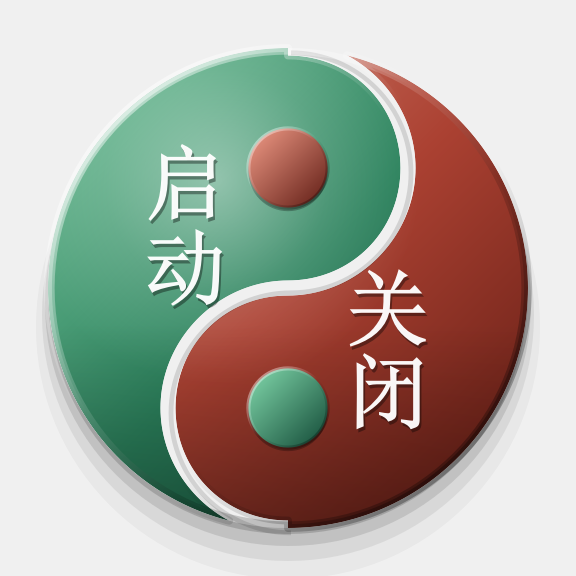
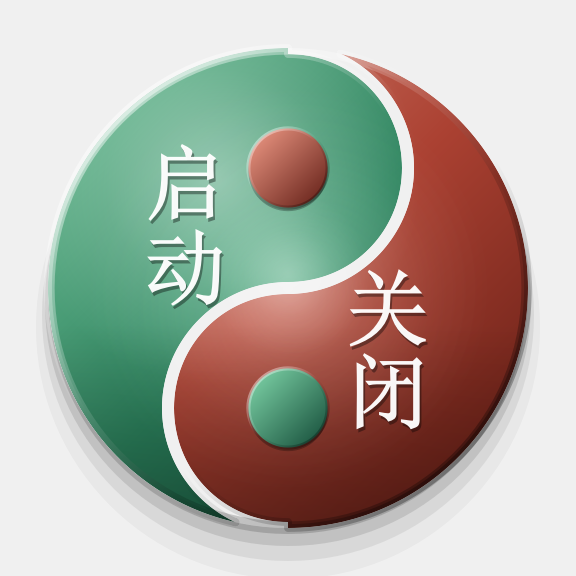
feat(ui): 缝隙改为透底色 + 盘心发光（v1.8.0 试看版）
- 缝隙 5px -> 4px，删除缝内的深色投影，缝内只透面板底色
- 新增 _paint_core_glow：跨缝白色柔光 + 两条鱼各自「自身色 lighter(124)」径向提亮
  （先试纯白叠加会把玉绿冲成灰绿，改为提亮自身明度）
- 版本 1.8.0（源码 + version.txt），构建 LaunchForge_v1.8.0.exe，旧 exe 已清理
- 文档：REQ-006 决策记录、FEAT-008 绘制分层、T-009 复验表、CHANGELOG 定版
- 新增 docs/images/real-window-v1.8.0.png（真实 exe 截图，PrintWindow 抓取）

Changed region(s): [[0.25, 0.1562, 0.75, 0.875], [0.5, 0.0938, 0.6562, 0.1562], [0.375, 0.875, 0.5, 0.9062]]

diff --git a/src/launchforge.py b/src/launchforge.py
@@ -64,7 +64,7 @@ CONFIG_FILE = os.path.join(CONFIG_DIR, 'launcher_presets.json')
 LOG_DIR = os.path.join(CONFIG_DIR, 'logs')
 LOG_FILE = os.path.join(LOG_DIR, 'launcher.log')
 
-APP_VERSION = '1.7.0'
+APP_VERSION = '1.8.0'
 
 log = logging.getLogger('launchforge')
 
@@ -530,7 +530,7 @@ class TaijiLaunchButton(QWidget):
         super().__init__(parent)
         self._d = int(diameter)
         self._margin = 16                     # 留给落影
-        self._gap = 5                         # 两条鱼之间的缝隙
+        self._gap = 4                         # 两条鱼之间的缝隙（只透底色，不加投影）
         self._cache = None
         self.setFixedSize(self._d + self._margin * 2, self._d + self._margin * 2)
         self.setMouseTracking(True)
@@ -667,6 +667,17 @@ class TaijiLaunchButton(QWidget):
         spec.setColorAt(1.0, QColor(255, 255, 255, 0))
         p.fillPath(path, QBrush(spec))
 
+        # 2b) 内在发光：用"自身颜色的提亮版"做径向渐变。
+        # 直接叠白色会把玉绿冲成灰绿，只有提高自身明度才有"从里面亮"的观感。
+        bright = light.lighter(124)
+        inner = QRadialGradient(QPointF(cx, cy), radius * 0.80)
+        inner.setColorAt(0.0, QColor(bright.red(), bright.green(), bright.blue(),
+                                    86 if enabled else 46))
+        inner.setColorAt(0.42, QColor(bright.red(), bright.green(), bright.blue(), 34))
+        inner.setColorAt(0.78, QColor(bright.red(), bright.green(), bright.blue(), 9))
+        inner.setColorAt(1.0, QColor(bright.red(), bright.green(), bright.blue(), 0))
+        p.fillPath(path, QBrush(inner))
+
         # 3) 底部内阴影：制造厚度
         shade = QLinearGradient(QPointF(0, cy + radius * 0.15), QPointF(0, rect.bottom()))
         shade.setColorAt(0.0, QColor(0, 0, 0, 0))
@@ -771,21 +782,9 @@ class TaijiLaunchButton(QWidget):
         self._paint_fish(p, left, 'run')
         self._paint_fish(p, right, 'close')
 
-        # 缝隙投影：沿 S 曲线在缝内压一道淡影，两块才像真的分开而不是画上去的
-        _big, _l, _r, _eyes, _er, _radius, _cx, _cy = self._geometry()
-        divider = QPainterPath()
-        divider.moveTo(_cx, _cy - _radius)
-        divider.arcTo(QRectF(_cx - _radius / 2.0, _cy - _radius, _radius, _radius), 90, -180)
-        divider.arcTo(QRectF(_cx - _radius / 2.0, _cy, _radius, _radius), 90, 180)
-        p.save()
-        p.setBrush(Qt.NoBrush)
-        pen = QPen(QColor(0, 0, 0, 32))
-        pen.setWidthF(1.6)
-        pen.setCapStyle(Qt.FlatCap)
-        p.setPen(pen)
-        p.translate(1.0, 1.6)
-        p.drawPath(divider)
-        p.restore()
+        # 中心发光：两块之间留出的缝只透底色，靠这层柔光让盘心"亮起来"，
+        # 看上去像光从内部透出，而不是靠深色阴影把两块分开。
+        self._paint_core_glow(p, big, _radius, _cx, _cy)
 
         # 鱼眼：左鱼嵌红点、右鱼嵌绿点
         self._paint_eye(p, eyes[0], eye_r, self.CLOSE_COLORS, self._run_enabled)
@@ -794,6 +793,37 @@ class TaijiLaunchButton(QWidget):
         self._paint_bezel(p, big)
         self._paint_text(p)
         p.end()
+
+    def _paint_core_glow(self, p, big, radius, cx, cy):
+        """
+        中心内发光：径向柔光 + 一枚更集中的球面亮斑。
+
+        两层叠加才像"从里面亮"，单层纯白渐变更像蒙了一层雾。
+        整体裁剪在圆内，边缘不留亮边，避免破坏外圈包边。
+        """
+        p.save()
+        clip = QPainterPath()
+        clip.addEllipse(big)
+        p.setClipPath(clip)
+        p.setPen(Qt.NoPen)
+
+        # 1) 跨缝柔光：让盘心整体更亮，缝两侧也跟着提亮，光才"连贯"
+        halo = QRadialGradient(QPointF(cx, cy), radius * 0.85)
+        halo.setColorAt(0.0, QColor(255, 255, 255, 44))
+        halo.setColorAt(0.35, QColor(255, 255, 255, 22))
+        halo.setColorAt(0.70, QColor(255, 255, 255, 7))
+        halo.setColorAt(1.0, QColor(255, 255, 255, 0))
+        p.setBrush(QBrush(halo))
+        p.drawEllipse(big)
+
+        # 2) 球面亮斑：半径小、衰减快，做出"鼓起来受光"的点
+        core = QRadialGradient(QPointF(cx, cy - radius * 0.06), radius * 0.34)
+        core.setColorAt(0.0, QColor(255, 255, 255, 64))
+        core.setColorAt(0.55, QColor(255, 255, 255, 18))
+        core.setColorAt(1.0, QColor(255, 255, 255, 0))
+        p.setBrush(QBrush(core))
+        p.drawEllipse(big)
+        p.restore()
 
     def _paint_bezel(self, p, big):
         """外圈包边：左上亮、右下暗，让整个圆盘像嵌在面板上。"""

diff --git a/docs/02-功能/FEAT-008-太极式启动关闭控件.md b/docs/02-功能/FEAT-008-太极式启动关闭控件.md
@@ -15,7 +15,7 @@
 |---|---|
 | 阴鱼（左，绿） | 外圈左半弧 + 上段 S（上方小圆的右半）+ 下段 S（下方小圆的左半），头部在上 |
 | 阳鱼（右，红） | 外圈右半弧 + 同样的 S 曲线，头部在下 |
-| 缝隙 | 沿 S 曲线用 `QPainterPathStroker` 从两条鱼各切掉一半，形成 5 px 真实间隙 |
+| 缝隙 | 沿 S 曲线用 `QPainterPathStroker` 从两条鱼各切掉一半，形成 4 px 真实间隙；**缝内只透面板底色**，不加任何投影 |
 | 鱼眼 | 左鱼嵌红点、右鱼嵌绿点，位置在各自鱼头中心 |
 | 文字 | 「启动」「关闭」两字**竖排**（逐字居中、自上而下），不做旋转，分别落在两条鱼的鱼身上 |
 
@@ -36,7 +36,9 @@
 2. **顶部镜面高光**：`QRadialGradient` 落在左上，模拟环境光；
 3. **底部内阴影**：纵向渐变压暗下缘，形成厚度；
 4. **边缘浮雕**：沿鱼形轮廓用**对角渐变画笔**描边（左上白、右下黑），这是"凹凸感"的主要来源；
-5. **缝隙投影**：沿 S 曲线在缝隙里偏移 1 px 压一道淡影，让两块像真的分开；
+5. **盘心发光**（v1.8.0）：两条鱼各叠一层「自身颜色 `lighter(124)`」的径向渐变
+   （中心 alpha 86 → 0），再叠一层跨缝白色柔光（中心 alpha 44）；
+   注意**不能直接叠纯白**，否则玉绿会被冲成灰绿；
 6. **外圈包边**：整圆左上亮、右下暗的 2.2 px 环，把圆盘"托"在面板上；
 7. **落影**：多层低透明度椭圆叠出柔和阴影（不依赖模糊滤镜）。
 
@@ -47,6 +49,7 @@
 | `_geometry()` | 一次性算出圆框、两条鱼路径、鱼眼位置；绘制与命中判定**共用同一份几何** |
 | `_side_at(pos)` | `path.contains()` 判定，天然支持 S 形边界与缝隙 |
 | `_paint_fish()` | 渐变 + 高光 + 内阴影 + 浮雕描边 + 悬停细边 |
+| `_paint_core_glow()` | 盘心发光：自身色径向提亮 + 跨缝白色柔光，`setClipPath` 裁在圆内 |
 | `_paint_eye()` | 鱼眼：投影 + 渐变球体 + 浮雕边 |
 | `_paint_bezel()` | 外圈包边 |
 | `_paint_text()` | 竖排文字，逐字绘制（启用态白字带暗影，禁用态深灰字） |
@@ -55,7 +58,9 @@
 
 - **尺寸固定**：绘制与命中都基于初始化时的直径（160 px），窗口缩放不会改变圆盘大小；
   需要改大小就改 `TaijiLaunchButton(160)` 这个参数。
-- **缝隙不可点**：S 曲线上 5 px 的间隙属于"空档"，故意不响应点击（避免误触另一半）。
+- **缝隙不可点**：S 曲线上 4 px 的间隙属于"空档"，故意不响应点击（避免误触另一半）。
+- **缝隙不加深色投影**：缝本身透面板底色，靠盘心的光把两块区分开；
+  早期版本在缝里压过一道黑影，放大后像一条发黑的深沟，已移除。
 - **鱼形边界靠矢量判定**：窗口在极高 DPI 缩放下依旧准确（`contains()` 基于路径而非像素），
   但若将来把圆盘改成图片资源，边界必须同步维护。
 - **无键盘焦点**：目前仅鼠标操作。

diff --git a/docs/01-需求/REQ-006-太极式启动关闭控件.md b/docs/01-需求/REQ-006-太极式启动关闭控件.md
@@ -29,8 +29,9 @@
 | 日期 | 议题 | 结论 | 理由 |
 |---|---|---|---|
 | 2026-10-20 | 分割方式 | 初版为垂直直切；**第二版改为 S 形太极分割** | 用户明确要求"要太极阴阳图" |
-| 2026-10-20 | 缝隙 | 用 `QPainterPathStroker` 从鱼形中真实减掉 5 px | 用户要求"按钮要有缝隙"，描边模拟缝隙会露馅 |
+| 2026-10-20 | 缝隙 | 用 `QPainterPathStroker` 从鱼形中真实减掉 4 px，缝内只透底色 | 用户要求"按钮要有缝隙"，描边模拟缝隙会露馅；后又要求缝隙"不要太明显，用背景的颜色就行"，故去掉缝里的投影并收窄 5→4 px |
 | 2026-10-20 | 凹凸感 | 沿轮廓用对角渐变画笔描边（浮雕） | 纯渐变只是明暗，压铸质感需要"边缘有高光也有暗边" |
+| 2026-10-20 | 盘心发光 | 每块用自身色 `lighter(124)` 做径向渐变 + 跨缝白柔光 | 用户要"中间像亮起来的感觉"；先试纯白叠加，会把玉绿冲成灰绿，改为提亮自身色 |
 | 2026-10-20 | 文字 | 逐字竖排，落在各自鱼身上 | 用户要求"文字竖着且竖着排布"；旋转 90° 会被读成横排 |
 | 2026-10-20 | 鱼眼 | 左鱼嵌红点、右鱼嵌绿点 | 太极图符号必需，同时强化两块的对立关系 |
 | 2026-10-20 | 配色 | 玉绿 + 朱砂红，压低明度与饱和差 | 用户反馈"配色怪怪的"——首个版本偏糖果色 |
@@ -51,7 +52,7 @@
 
 ## 后续可微调项（等用户反馈）
 
-- 直径（160 偏大还是偏小）、缝隙宽度（当前 5 px）
+- 直径（160 偏大还是偏小）、缝隙宽度（当前 4 px，已按要求收窄到"几乎看不出分界"）
 - 配色深浅（当前绿 `#2B815C`、红 `#AB4132`）
 - 是否需要更明显的"凸起"（可加大浮雕描边宽度）
 - 是否在圆下方补一行说明文字

diff --git a/CHANGELOG.md b/CHANGELOG.md
@@ -3,14 +3,17 @@
 版本号采用语义化版本。`v1.0.0` 是「从 exe 反汇编还原出的原始程序」，作为基线；
 此后每完成一项需求递增次版本号（`v1.x.0`），修复缺陷递增修订号（`v1.x.y`）。
 
-## [Unreleased]
+## [1.8.0] - 2026-10-20
 
 ### Added
 - **顶部太极式启动 / 关闭控件**（REQ-006 / FEAT-008）
   - 新增 `TaijiLaunchButton`：按太极图几何构造绘制两条鱼（S 形分割），左绿=一键启动、右红=关闭全部
-  - 两条鱼之间用 `QPainterPathStroker` 真实切出 5 px 缝隙；点缝隙/圆外均不响应
+  - 两条鱼之间用 `QPainterPathStroker` 真实切出 4 px 缝隙，缝内**只透面板底色**（不加投影，
+    避免出现一道发黑的深沟）；点缝隙/圆外均不响应
   - 鱼眼：左鱼嵌红点、右鱼嵌绿点；文字「启动」「关闭」逐字**竖排**，不做旋转
-  - 凹凸感：对角渐变 + 顶部高光 + 底部内阴影 + **沿轮廓的对角渐变浮雕描边** + 缝隙投影 + 外圈包边 + 多层落影
+  - 凹凸感：对角渐变 + 顶部高光 + 底部内阴影 + **沿轮廓的对角渐变浮雕描边** + 外圈包边 + 多层落影
+  - **盘心发光**：两条鱼各自叠一层「自身颜色提亮版」的径向渐变 + 一层跨缝白色柔光，
+    中心亮、向外衰减，做出「光从圆盘内部透出」的观感（不用叠纯白，避免绿色被冲成灰绿）
   - 交互细节：按下后拖出鱼身松开不触发、悬停高亮、启动中绿鱼置灰（文字转深灰）而红鱼保持可用
   - 圆盘单独占据顶部一行并居中，不再与添加/宏等功能按钮混排；直径 160 px
 

diff --git a/docs/06-测试/验收记录.md b/docs/06-测试/验收记录.md
@@ -464,6 +464,17 @@ python tests/test_step8_taiji_button.py
 | `docs/images/ui-taiji-zoom.png` | 3 倍放大：渐变、高光、内阴影、落影、中缝细节 |
 | `docs/images/ui-taiji-states.png` | 四态对比：常态 / 左半悬停 / 右半悬停 / 左半禁用 |
 | `docs/images/main-window.png` | 整窗效果（README 主截图，已替换为新版） |
+| `docs/images/real-window-v1.8.0.png` | **真实 exe** 运行截图（`PrintWindow` 抓取，DPI 感知） |
+
+**v1.8.0 微调复验**（缝隙与盘心发光）：
+
+| 检查项 | 期望 | 实测 |
+|---|---|---|
+| 缝隙宽度 | 5 px → 4 px，缝内为面板底色 | ✅ 1× 下几乎看不出分界 |
+| 缝隙不再压投影 | 无深色沟 | ✅ 已删除该绘制段 |
+| 盘心发光 | 中心亮、向外衰减，颜色不被冲灰 | ✅ 绿色改「自身色提亮」后不再发灰 |
+| 交互回归 | 缝隙仍不可点，左右命中不变 | ✅ T-009 全部用例重跑通过 |
+| 真实产物 | exe 渲染与源码一致 | ✅ `real-window-v1.8.0.png` |
 
 > 采坑记录：本机 `QT_QPA_PLATFORM=offscreen` 环境下**所有文字都不渲染**（字体库不可用，
 > `app.font().family()` 退化为 Helvetica，`drawText` 产出 0 个暗像素）。

diff --git a/docs/README.md b/docs/README.md
@@ -4,9 +4,9 @@
 
 | 项目 | 位置 |
 |---|---|
-| 当前版本 | **v1.7.0** |
+| 当前版本 | **v1.8.0** |
 | 源码主副本 | `../src/launchforge.py` |
-| 可执行产物 | `../LaunchForge_v1.7.0.exe`（仓库根只留这一个；原始程序存档在分析工作区 `LaunchForge_Reverse\original\`） |
+| 可执行产物 | `../LaunchForge_v1.8.0.exe`（仓库根只留这一个；原始程序存档在分析工作区 `LaunchForge_Reverse\original\`） |
 | 逆向还原说明 | `07-逆向与构建/还原报告.md` |
 | 分析 / 验证工作区 | `E:\electronic2\software\workbuddy\data\Start_all_app\LaunchForge_Reverse`（解包产物、反汇编清单、验收脚本） |
 | 仓库结构 | 见根目录 `../README.md` 的「目录结构」一节 |
@@ -53,7 +53,7 @@
 | REQ-003 | 支持文件夹条目 | 已完成（v1.4.0） |
 | REQ-004 | 多文件夹合并到单窗口 | **已回退（v1.6.0）**，见 Q-002 |
 | REQ-005 | 关闭列表内文件夹对应的窗口 | 已完成（v1.7.0） |
-| REQ-006 | 顶部太极式启动 / 关闭控件 | 待验收（v1.8.0） |
+| REQ-006 | 顶部太极式启动 / 关闭控件 | 已完成（v1.8.0） |
 
 ## 功能索引
 

diff --git a/README.md b/README.md
@@ -11,7 +11,7 @@
 
 | 能力 | 说明 |
 |---|---|
-| 顶部太极圆盘 | 左半绿=一键启动、右半红=关闭全部；3D 质感，启动中左半自动置灰 |
+| 顶部太极圆盘 | 左半绿=一键启动、右半红=关闭全部；3D 浮雕 + 盘心发光，启动中绿鱼自动置灰 |
 | 预设方案 | 多套方案自由切换，改动即时保存，无「保存」按钮 |
 | 一键启动 | 按列表顺序启动全部条目；程序并发、文件夹随后打开 |
 | 安全关闭 | 先确认 → 检测是否真的在运行 → 逐项关闭 → 复查 → 汇总；**未运行的自动跳过** |
@@ -92,7 +92,7 @@ python -m PyInstaller --noconfirm --onefile --windowed ^
     --icon=assets\logo.ico ^
     --add-data "assets\logo.ico;." ^
     --version-file=version.txt ^
-    --name LaunchForge_v1.7.0 ^
+    --name LaunchForge_v1.8.0 ^
     src\launchforge.py
 ```
 
